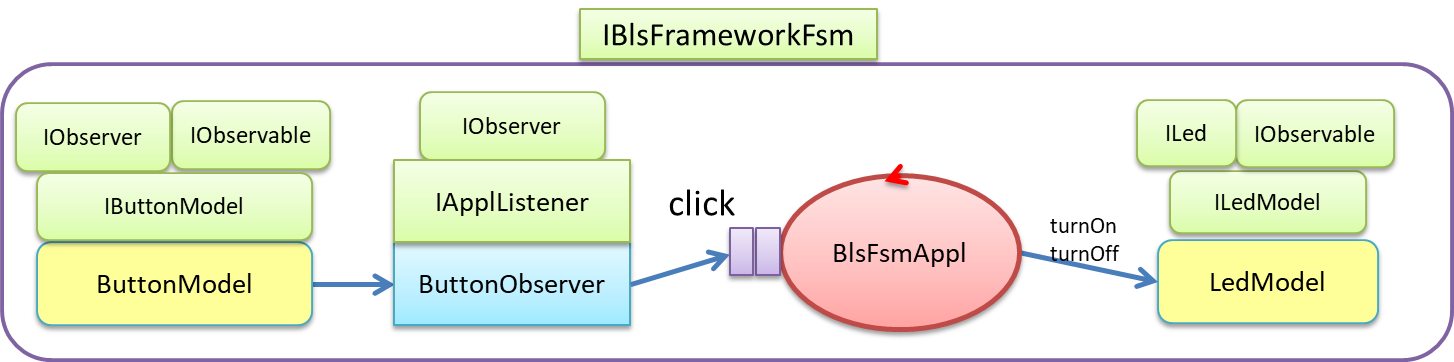
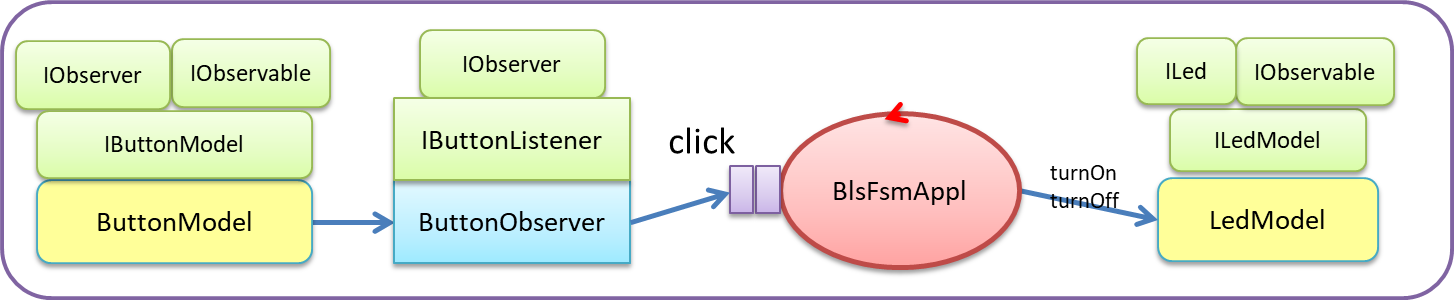
Lab4 actor FSM update

diff --git a/it.unibo.bls19Local/userDocs/Lab4.html b/it.unibo.bls19Local/userDocs/Lab4.html
@@ -131,14 +131,17 @@ table, th, td {
 
 <h2>REQUIREMENTS</h2>
 <div class="req">
-With reference to the system based on models, introduced in <a href="Lab3.html" target="info">Lab3.html</a>, re-design the application logic
-as an Kotlin actor that works like a Finite State Machine (FSM)
+With reference to the system  introduced in <a href="Lab3.html" target="info">Lab3.html</a>, re-design the application logic
+as an Kotlin actor that works like a <a href="https://en.wikipedia.org/wiki/Finite-state_machine">Finite State Machine</a> (<bc>FSM</bc>).
 </div>	    
  	
 	
 <h2>THE GOAL</h2>
 
 <center><img src="./blsLogicModelsFsm0.png" alt="blsLogicModelsFsm0" width="80%" height="80%"></center>
+
+<h2>THE SYSTEM</h2>
+
 <p>
 <center><table style="width:90%">
   <tr>
@@ -151,11 +154,11 @@ as an Kotlin actor that works like a Finite State Machine (FSM)
 <ul>
 <li><a href="../src/main/kotlin/it/unibo/blsFramework/kotlin/fsm/IBlsFrameworkFsm.kt" target="code">IBlsFrameworkFsm.kt</a></li>
 <li><a href="../src/main/kotlin/it/unibo/blsFramework/kotlin/fsm/IAppLogicFsm.kt" target="code">IAppLogicFsm.kt</a></li>
+<li><a href="../src/main/kotlin/it/unibo/blsFramework/kotlin/fsm/IButtonListener.kt" target="code">IButtonListener.kt</a></li>
 <li>---------</li>
 
 <li><a href="../src/main/java/it/unibo/blsFramework/interfaces/IButtonModel.java" target="code">IButtonModel</a></li>
 <li><a href="../src/main/java/it/unibo/blsFramework/interfaces/ILedModel.java" target="code">ILedModel</a></li>
-<li><a href="../src/main/java/it/unibo/blsFramework/interfaces/IApplListener.java" target="code">IApplListener</a></li>
 </ul>	
 </td>
 <td>
@@ -165,7 +168,8 @@ as an Kotlin actor that works like a Finite State Machine (FSM)
 </td> 
 <td>
 <a href="../src/main/kotlin/it/unibo/blsFramework/kotlin/fsm/ButtonObserver.kt" target="code">ButtonObserver.kt</a><br/>
-<a href="../src/main/kotlin/it/unibo/blsFramework/kotlin/fsm/BlsFsmAppl.kt" target="code">BlsFsmAppl.kt</a>
+<a href="../src/main/kotlin/it/unibo/blsFramework/kotlin/fsm/BlsFsmAppl.kt" target="code">BlsFsmAppl.kt</a><br/><br/>
+<a href="../src/main/kotlin/it/unibo/blsFramework/kotlin/fsm/MsgUtils.kt" target="code">MsgUtils.kt</a>
 </td>
 </tr>
  </table></center>
@@ -176,7 +180,27 @@ as an Kotlin actor that works like a Finite State Machine (FSM)
 
 <center><img src="./blsLogicModelsFsmAll.png" alt="blsLogicModelsFsmAll" width="60%" height="60%"></center>
 
- 
+<h2>MESSAGES</h2> 
+
+In <a href="../src/main/kotlin/it/unibo/blsFramework/kotlin/fsm/MsgUtils.kt" target="code">MsgUtils.kt</a> we define the messages:
+<pre>
+enum class Messages{
+    Stop,Goon,Click
+}
+</pre>
+
+
+<h2>COMMUNICATION</h2> 
+In <a href="../src/main/kotlin/it/unibo/blsFramework/kotlin/fsm/MsgUtils.kt" target="code">MsgUtils.kt</a> we define the operation
+<bc>forward</bc>:
+<pre>
+fun forward(msg : Messages, channel: SendChannel<Messages>){
+    GlobalScope.launch {
+        channel.send(msg)
+    }
+}
+</pre>
+
 </p>
 
 

diff --git a/it.unibo.bls19Local/src/main/kotlin/it/unibo/blsFramework/kotlin/fsm/BlsFsmAppl.kt b/it.unibo.bls19Local/src/main/kotlin/it/unibo/blsFramework/kotlin/fsm/BlsFsmAppl.kt
@@ -71,18 +71,6 @@ open class BlsFsmAppl : IAppLogicFsm {
         }
     }
 
-     @kotlinx.coroutines.ObsoleteCoroutinesApi
-    open fun applLogic( ) {  //open : can be overridden
-        if (fsm is SendChannel<Messages>) {  //stateMachine has been initialized
-            numCalls++
-            val doBlink = numCalls % 2 != 0     //if false actorBlink ends its loop
-            println("	BlsFrameworkApplicationLogicKt | execute numCalls=$numCalls doBlink=$doBlink")
-            when (doBlink) {
-                true -> forward(Messages.Start, fsm!!)
-                false -> forward(Messages.Stop, fsm!!)
-            }
-        }
-    }
 
     @kotlinx.coroutines.ObsoleteCoroutinesApi
     override fun getStateMachine( ) :  SendChannel<Messages>{

diff --git a/it.unibo.bls19Local/src/main/kotlin/it/unibo/blsFramework/kotlin/fsm/ButtonObserver.kt b/it.unibo.bls19Local/src/main/kotlin/it/unibo/blsFramework/kotlin/fsm/ButtonObserver.kt
@@ -1,6 +1,5 @@
 package it.unibo.blsFramework.kotlin.fsm
 
-import it.unibo.blsFramework.interfaces.IButtonListener
 import kotlinx.coroutines.channels.SendChannel
 import java.util.Observable
 
@@ -10,11 +9,13 @@ class ButtonObserver private constructor() : IButtonListener {
 
     private var count = 0
 
-    override fun setControl(ctrl: SendChannel<Messages>) {
+    override
+    fun setControl(ctrl: SendChannel<Messages>) {
         this.controller = ctrl
     }
 
-    override fun getNumOfClicks(): Int {
+    override
+    fun getNumOfClicks(): Int {
         return count
     }
 

diff --git a/it.unibo.bls19Local/src/main/kotlin/it/unibo/blsFramework/kotlin/fsm/IButtonListener.kt b/it.unibo.bls19Local/src/main/kotlin/it/unibo/blsFramework/kotlin/fsm/IButtonListener.kt
@@ -1,0 +1,9 @@
+package it.unibo.blsFramework.kotlin.fsm
+
+import it.unibo.bls.interfaces.IObserver
+import kotlinx.coroutines.channels.SendChannel
+
+interface IButtonListener : IObserver {
+    fun getNumOfClicks(): Int
+    fun setControl(channel: SendChannel<Messages>)
+}

diff --git a/it.unibo.bls19Local/src/main/kotlin/it/unibo/blsFramework/kotlin/fsm/MsgUtils.kt b/it.unibo.bls19Local/src/main/kotlin/it/unibo/blsFramework/kotlin/fsm/MsgUtils.kt
@@ -5,7 +5,7 @@ import kotlinx.coroutines.channels.SendChannel
 import kotlinx.coroutines.launch
 
 enum class Messages{
-    Stop,Start,Goon,Click
+    Stop,Goon,Click
 }
 
 @kotlinx.coroutines.ObsoleteCoroutinesApi

diff --git a/it.unibo.bls19Local/src/main/java/it/unibo/blsFramework/listener/ButtonObserver.java b/it.unibo.bls19Local/src/main/java/it/unibo/blsFramework/listener/ButtonObserver.java
@@ -18,7 +18,7 @@ private IAppLogic controller;
 	public void setControl( IAppLogic ctrl ){
 		this.controller = ctrl;
 	}
-	
+
 	public int getNumOfClicks(){
 		return count;
 	}
